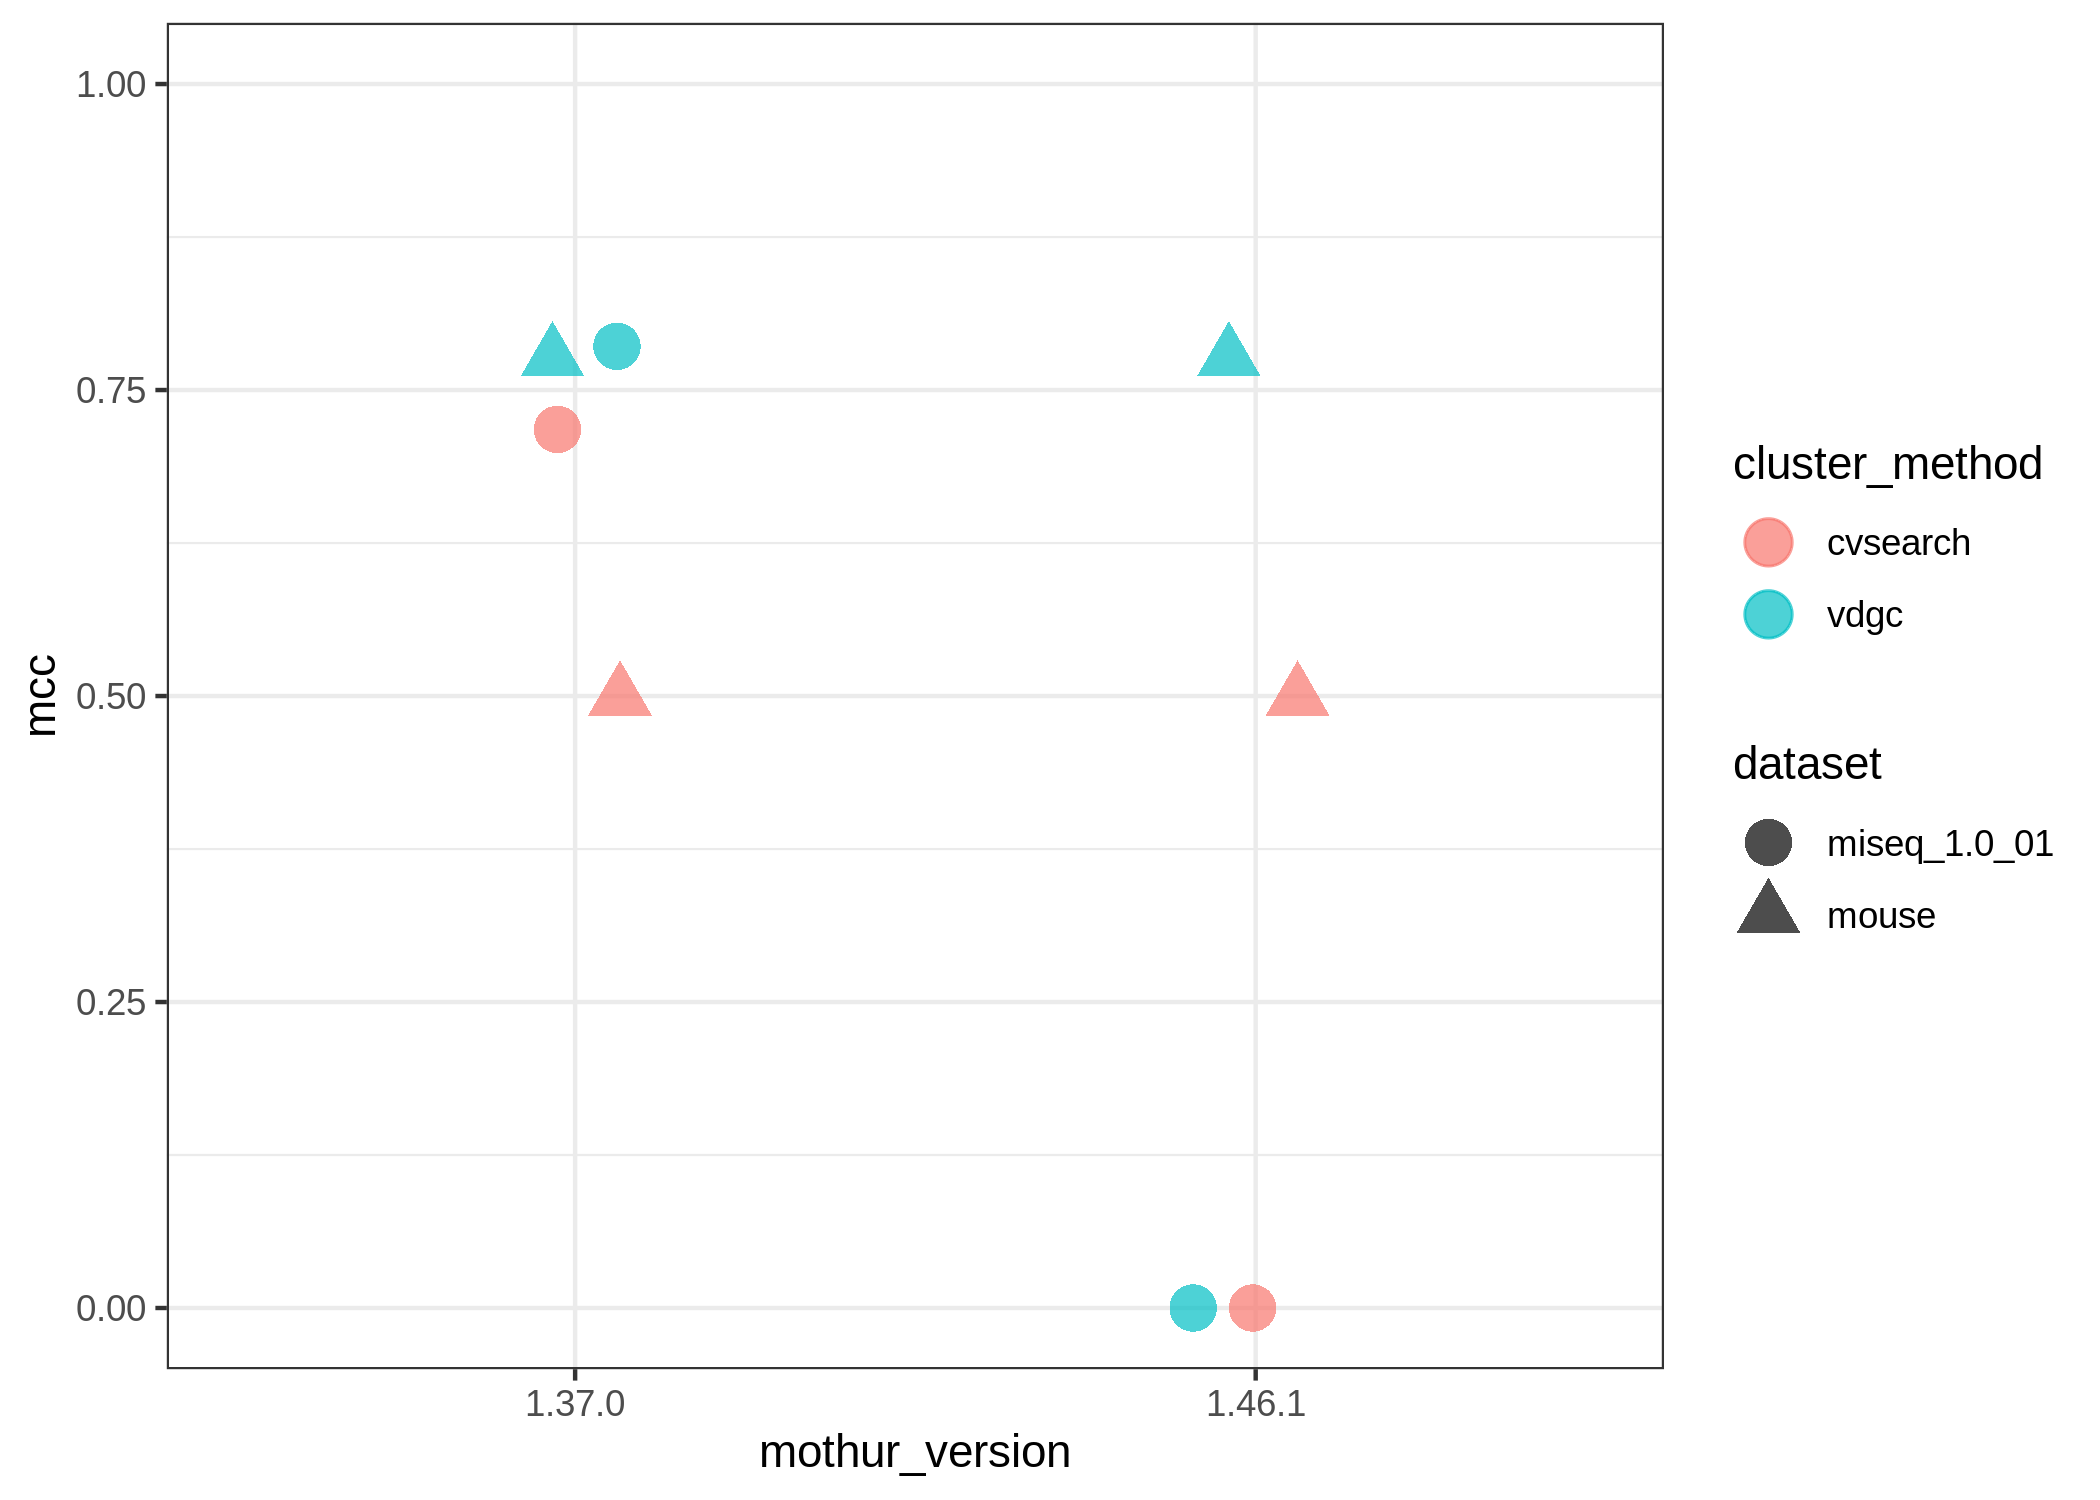
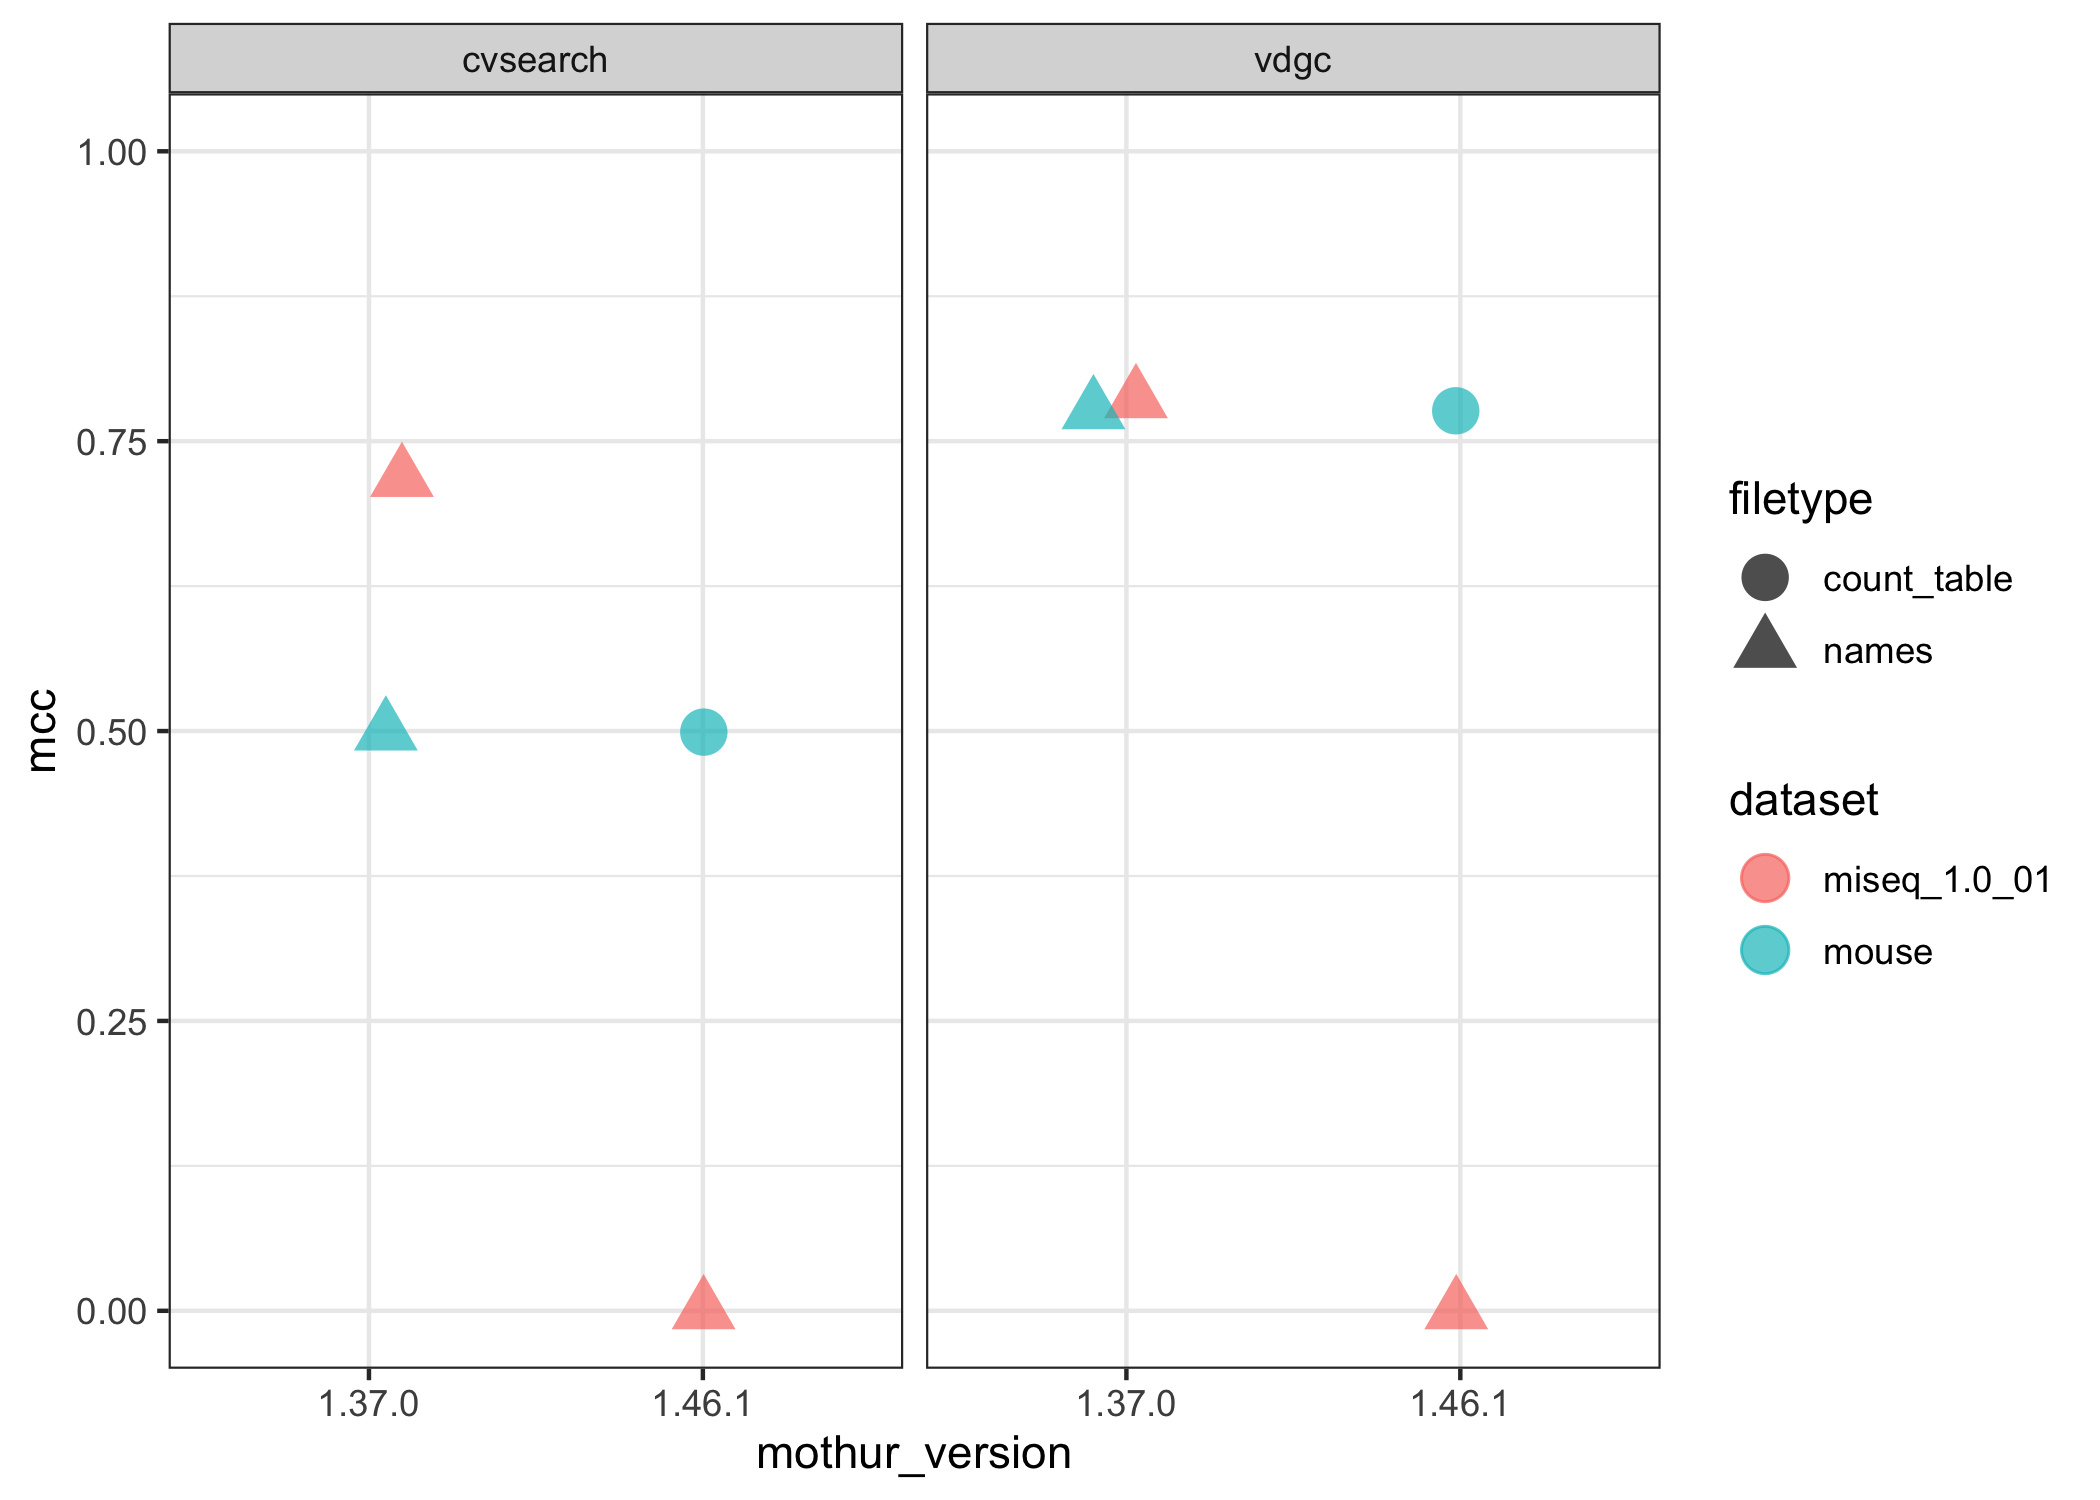
mcc of 0 w/ names file & mothur 1.46

diff --git a/README.md b/README.md
@@ -18,19 +18,19 @@ dat <- read_tsv(here('results', 'sensspec_concat.tsv')) %>%
                             TRUE ~ 'unknown'))
 ```
 
-    ## 
+    ## New names:
+    ## * label...19 -> label...22
+
+    ## Rows: 8 Columns: 22
+
     ## ── Column specification ────────────────────────────────────────────────────────
-    ## cols(
-    ##   .default = col_double(),
-    ##   label...1 = col_character(),
-    ##   mothur_version = col_character(),
-    ##   dataset = col_character(),
-    ##   filetype = col_character(),
-    ##   cluster_method = col_character(),
-    ##   label...20 = col_character(),
-    ##   label...19 = col_character()
-    ## )
-    ## ℹ Use `spec()` for the full column specifications.
+    ## Delimiter: "\t"
+    ## chr  (7): label...1, mothur_version, dataset, filetype, cluster_method, labe...
+    ## dbl (15): cutoff, numotus, tp, tn, fp, fn, sensitivity, specificity, ppv, np...
+
+    ## 
+    ## ℹ Use `spec()` to retrieve the full column specification for this data.
+    ## ℹ Specify the column types or set `show_col_types = FALSE` to quiet this message.
 
 ``` r
 dat %>% 
@@ -38,21 +38,22 @@ dat %>%
   knitr::kable()
 ```
 
-| dataset        | cluster\_method | mothur\_version | filetype     |    mcc | num\_otus |
-| :------------- | :-------------- | :-------------- | :----------- | -----: | --------: |
-| miseq\_1.0\_01 | vdgc            | 1.46.1          | names        | 0.0000 |      2114 |
-| miseq\_1.0\_01 | cvsearch        | 1.46.1          | names        | 0.0000 |       862 |
-| miseq\_1.0\_01 | vdgc            | 1.37.0          | names        | 0.7857 |      2114 |
-| miseq\_1.0\_01 | cvsearch        | 1.37.0          | names        | 0.7178 |       862 |
-| mouse          | vdgc            | 1.37.0          | names        | 0.7762 |      2113 |
-| mouse          | cvsearch        | 1.37.0          | names        | 0.4991 |       870 |
-| mouse          | vdgc            | 1.46.1          | count\_table | 0.7762 |      2113 |
-| mouse          | cvsearch        | 1.46.1          | count\_table | 0.4991 |       870 |
+| dataset      | cluster_method | mothur_version | filetype    |    mcc | num_otus |
+|:-------------|:---------------|:---------------|:------------|-------:|---------:|
+| miseq_1.0_01 | vdgc           | 1.46.1         | names       | 0.0000 |     2114 |
+| miseq_1.0_01 | cvsearch       | 1.46.1         | names       | 0.0000 |      862 |
+| miseq_1.0_01 | vdgc           | 1.37.0         | names       | 0.7857 |     2114 |
+| miseq_1.0_01 | cvsearch       | 1.37.0         | names       | 0.7178 |      862 |
+| mouse        | vdgc           | 1.37.0         | names       | 0.7762 |     2113 |
+| mouse        | cvsearch       | 1.37.0         | names       | 0.4991 |      870 |
+| mouse        | vdgc           | 1.46.1         | count_table | 0.7762 |     2113 |
+| mouse        | cvsearch       | 1.46.1         | count_table | 0.4991 |      870 |
 
 ``` r
-dat %>% ggplot(aes(x=mothur_version, y=mcc, color=cluster_method, shape=dataset)) +
+dat %>% ggplot(aes(x=mothur_version, y=mcc, color=dataset, shape=filetype)) +
   geom_point(position = position_jitter(width=0.1, height = 0),
              size = 5, alpha=0.7) +
+  facet_wrap("cluster_method") +
   ylim(0,1) +
   theme_bw()
 ```
@@ -60,7 +61,7 @@ dat %>% ggplot(aes(x=mothur_version, y=mcc, color=cluster_method, shape=dataset)
 ![](figures/plot_mcc-1.png)<!-- -->
 
 ``` r
-dat %>% ggplot(aes(x=mothur_version, y=mcc, color=paper)) +
+dat %>% ggplot(aes(x=mothur_version, y=mcc, color=paper, shape=filetype)) +
   geom_point(position = position_jitter(width=0.1, height = 0),
              size = 5, alpha=0.7) +
   facet_wrap('method') +
